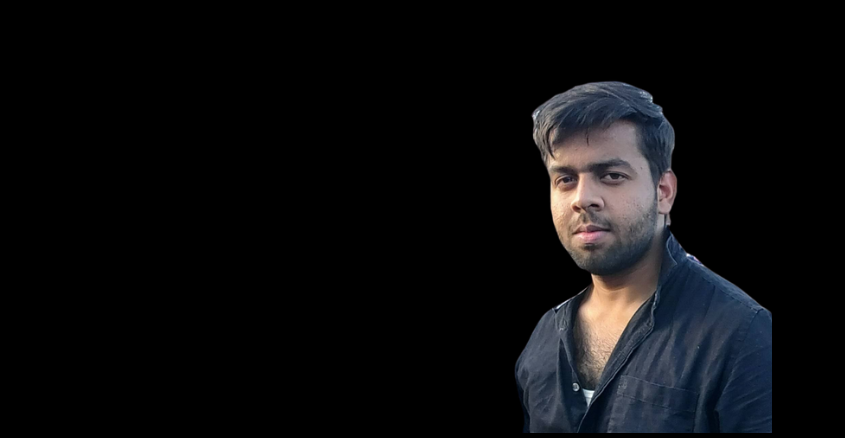
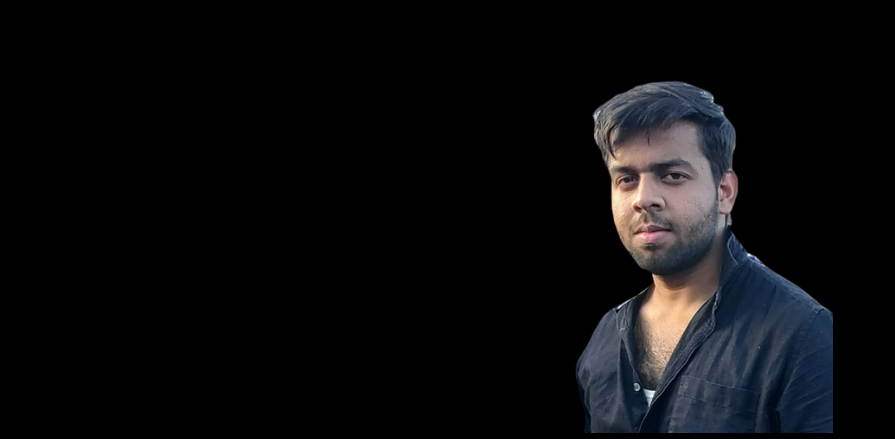
First Commit

Changed region(s): [[0.5846, 0.1781, 0.9538, 1.0]]

diff --git a/index.html b/index.html
@@ -3,7 +3,7 @@
 <head>
     <meta charset="UTF-8">
     <meta name="viewport" content="width=device-width, initial-scale=1.0">
-    <title>My Page</title>
+    <title>AKS</title>
     <link rel="stylesheet" href="index.css">
     <link href="https://fonts.googleapis.com/css2?family=Pacifico&display=swap" rel="stylesheet">
     <link href="https://fonts.googleapis.com/css2?family=Quantico&display=swap" rel="stylesheet">
@@ -25,7 +25,7 @@
                 </ul>
             </nav>
             <div class="header-text"><br><br>
-                <h5>|| <span>Front-End Developer</span> ||</h5><br>
+                <h5>|| <span>App Developer</span> ||</h5><br>
                 <h1>Hi peeps, I'm <br><span>Aryan Kumar Singh</span><br> from Mumbai.</hl>
             </div>
         </div>
@@ -35,13 +35,13 @@
         <div class="container">
             <div class="row">
                 <div class="about-col-1">
-                    <img src="about2.png">
+                    <img src="about.png">
                 </div>
                 <div class="about-col-2">
                     <h1 class="subtitle">About Me</h1><br><br>
                     <h3>
                         <p>
-                            Hey there! You can call me AKS - that's what she does. I specialize in crafting captivating and responsive front-end designs. My passion lies in bringing the best possible user experiences to life, and I do that by turning your design visions into reality. With a keen eye for detail and a knack for problem-solving, I thrive on creating visually stunning websites that not only look great but also function seamlessly across most devices. 
+                            Hey there! You can call me AKS - that's what she does. I specialize in crafting captivating and responsive front-end designs. My passion lies in bringing the best possible user experiences to life, and I do that by turning your design visions into reality. With a keen eye for detail and a knack for problem-solving, I thrive on creating visually stunning websites and apps that not only look great but also function seamlessly across most devices. 
                         </p>
                         <br>
                         <p>
@@ -62,7 +62,7 @@
             <div class="services-list">
                 <div>
                     
-                    <h2><i class="fa-solid fa-globe"></i> &nbsp; &nbsp; &nbsp; Web Front-End</h2>
+                    <h2><i class="fa-solid fa-globe"></i> &nbsp; &nbsp; Web Front-End</h2>
                     <p style="font-size: 20px;">
                         Crafting responsive, dynamic websites with clean HTML/CSS, seamless JavaScript integration, and cross-browser compatibility for an immersive user experience.
                     </p>
@@ -70,7 +70,7 @@
                 </div>
                 <div>
                     
-                    <h2> &nbsp; <i class="fa-solid fa-mobile-screen-button"></i> &nbsp; &nbsp; &nbsp; App Front-End</h2>  
+                    <h2> &nbsp; <i class="fa-solid fa-mobile-screen-button"></i> &nbsp; &nbsp; App Front-End</h2>  
                     <p style="font-size: 20px;">
                         Creating intuitive interfaces for native and hybrid applications, prioritizing UI/UX design and seamless integration with backend systems and APIs.
                     </p>

diff --git a/test.html b/test.html
@@ -1,0 +1,39 @@
+<!DOCTYPE html>
+<html lang="en">
+<head>
+    <meta charset="UTF-8">
+    <meta name="viewport" content="width=device-width, initial-scale=1.0">
+    <title>AKS</title>
+    <link rel="stylesheet" href="test.css">
+    <link href="https://fonts.googleapis.com/css2?family=Pacifico&display=swap" rel="stylesheet">
+    <link href="https://fonts.googleapis.com/css2?family=Quantico&display=swap" rel="stylesheet">
+    <link href="https://fonts.googleapis.com/css2?family=Source+Code+Pro&display=swap" rel="stylesheet">
+    <link href="https://fonts.googleapis.com/css2?family=Satisfy&display=swap" rel="stylesheet">
+    <script src="https://kit.fontawesome.com/93d3a761cb.js" crossorigin="anonymous"></script>
+</head>
+<body>
+    <div id="header">
+        <nav>
+            <img src="logo.png" class="logo">
+            <ul>
+                <li><a href="#">Home</a></li>
+                <li><a href="#">About</a></li>
+                <li><a href="#">Services</a></li>
+                <li><a href="#">Portfolio</a></li>
+                <li><a href="#">Contact</a></li>
+            </ul>
+        </nav>
+        <div class="container">
+            
+            <div class="header-left">
+                <div class="header-text"><br><br>
+                    <h5>|| <span>AppDeveloper</span> ||</h5><br>
+                    <h1>Hi peeps, I'm <br><span class="name">Aryan Kumar Singh</span><br> from Mumbai.</hl>
+                </div>
+            </div>
+            <div class="header-right">
+                <img src="mypic.png">
+            </div>
+            
+        </div>
+    </div>

diff --git a/test.css b/test.css
@@ -1,0 +1,86 @@
+*{
+    margin: 0;
+    padding: 0;
+    font-family: 'Poppins', sans-serif;
+    box box-sizing: border-box;
+}
+body {
+    font-family: 'Pacifico', cursive;
+}
+
+h1, h2, h3,h4{
+    font-family: 'Quantico', sans-serif;
+    font-weight: 700;
+}
+
+
+body{
+    background: #080808;
+    color: #fff;
+}
+#header{
+    width: 100%;
+    height: 100vh;
+    background-size: cover;
+    background-position: center;
+    background-color: #080808;
+}
+.container{
+    padding: 10px 5%;
+
+}
+nav{
+    display: flex;
+    align-items: center;
+    justify-content: space-between;
+    flex-wrap: wrap;
+    margin: 0 15px;
+}
+nav img{
+    margin-left: 45px;
+}
+.logo{
+    width: 200px;
+}
+nav ul li{
+    display: inline-block;
+    list-style: none;
+    padding: 10px 20px;
+    border-radius: 10px;
+    transition: background 0.3s, transform 0.4s;
+}
+nav ul li a{
+    color: #fff;
+    text-decoration: none;
+    font-family: 'Quantico', sans-serif;
+    font-size: x-large;
+    font-weight: 800;
+}
+
+nav ul li:hover{
+    background: linear-gradient(rgba(0,0,0,0.6),#ff004f);
+    color: #262626;
+    transform: translateY(-5px);
+}
+.header-text{
+    margin-top: 5%;
+    font-size: 34px;
+}
+.header-text .name{
+    color: #ff004f;
+    font-weight: 800;
+    font-size: 100%;
+}
+#header .container{
+    display: flex;
+}
+.header-left{
+    flex-basis: 61%;
+}
+.header-right img{
+    flex-basis: auto;
+    position: fixed;
+    right: 0;
+    margin-right: 20px;
+    width: 39%;
+}

diff --git a/index.css b/index.css
@@ -24,9 +24,11 @@ body{
     background-image: url(bg2.png);
     background-size: cover;
     background-position: center;
+    background-color: #080808;
 }
 .container{
     padding: 10px 5%;
+
 }
 nav{
     display: flex;
@@ -58,7 +60,7 @@ nav ul li:hover{
     transform: translateY(-5px);
 }
 .header-text{
-    margin-left: 7%;
+
     margin-top: 5%;
     font-size: 34px;
 }
@@ -82,7 +84,7 @@ nav ul li:hover{
 }
 .about-col-1 img{
     width: 100%;
-    border-radius: 15%;
+    border-radius: 5%;
 }
 .about-col-2{
     flex-basis: 50%;
@@ -239,10 +241,10 @@ p{
     background-color: #080808;
 }
 .contact-left{
-    flex-basis: 35%;
+    flex-basis: 40%;
 }
 .contact-right{
-    flex-basis: 60%;
+    flex-basis: 55%;
 }
 .contact-left p{
     margin-top: 20px;
